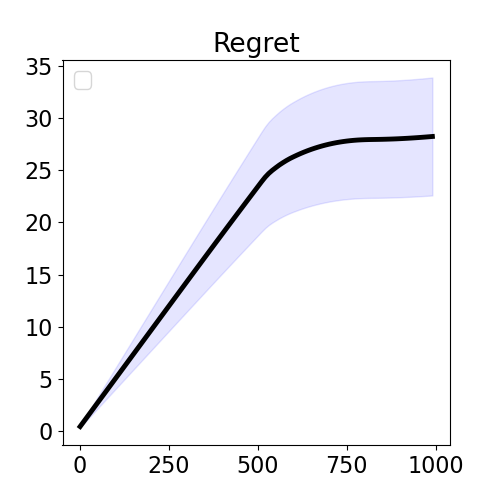
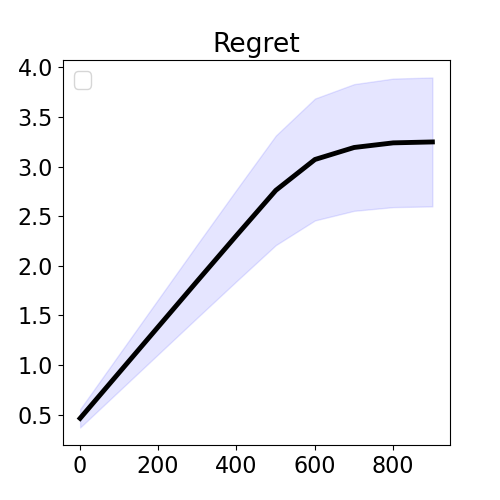
asdflkm

diff --git a/constrained_bandits.py b/constrained_bandits.py
@@ -68,11 +68,12 @@ def run_constrained_bandits(T, reward_gaussian_means, cost_gaussian_means, known
 			raise ValueError("Policy didn't sum to 1. It summed to {} instead.".format(sum(policy)))
 		index = banditalg.get_arm_index()
 		our_policy_means = banditenv.evaluate_policy(policy)
-		
+
 		local_rewards.append(our_policy_means[0])
 		local_costs.append(our_policy_means[1])
 
 		if t%logging_frequency == 0:
+		  print("iteration {}".format(t))
 		  rewards.append(np.mean(local_rewards))
 		  costs.append(np.mean(local_costs))
 		  local_rewards = []
@@ -90,11 +91,11 @@ def run_constrained_bandits(T, reward_gaussian_means, cost_gaussian_means, known
 
 
 
-T = 1000
+T = 1000000
 #T = 100
 num_repetitions = 10
 threshold = .5
-logging_frequency = 10
+logging_frequency = 100
 
 
 path = os.getcwd()

diff --git a/random_mab_problems.py b/random_mab_problems.py
@@ -88,6 +88,7 @@ def run_random_mab_sweep_experiment(T, num_arms, lower_threshold , do_UCB = Fals
 	  local_costs.append(our_policy_means[1])
 
 	  if t%logging_frequency == 0:
+		  print("iteration {}".format(t))
 		  rewards.append(np.mean(local_rewards))
 		  costs.append(np.mean(local_costs))
 		  local_rewards = []
@@ -109,10 +110,10 @@ def run_random_mab_sweep_experiment(T, num_arms, lower_threshold , do_UCB = Fals
 
 
 
-T = 1000
+T = 1000000
 num_arms = 10
 num_repetitions = 10
-logging_frequency = 10
+logging_frequency = 100
 
 lower_thresholds = [0, .2, .5]
 colors = ["black", "blue", "red", "green", "violet", "purple", "orange", "yellow"]
